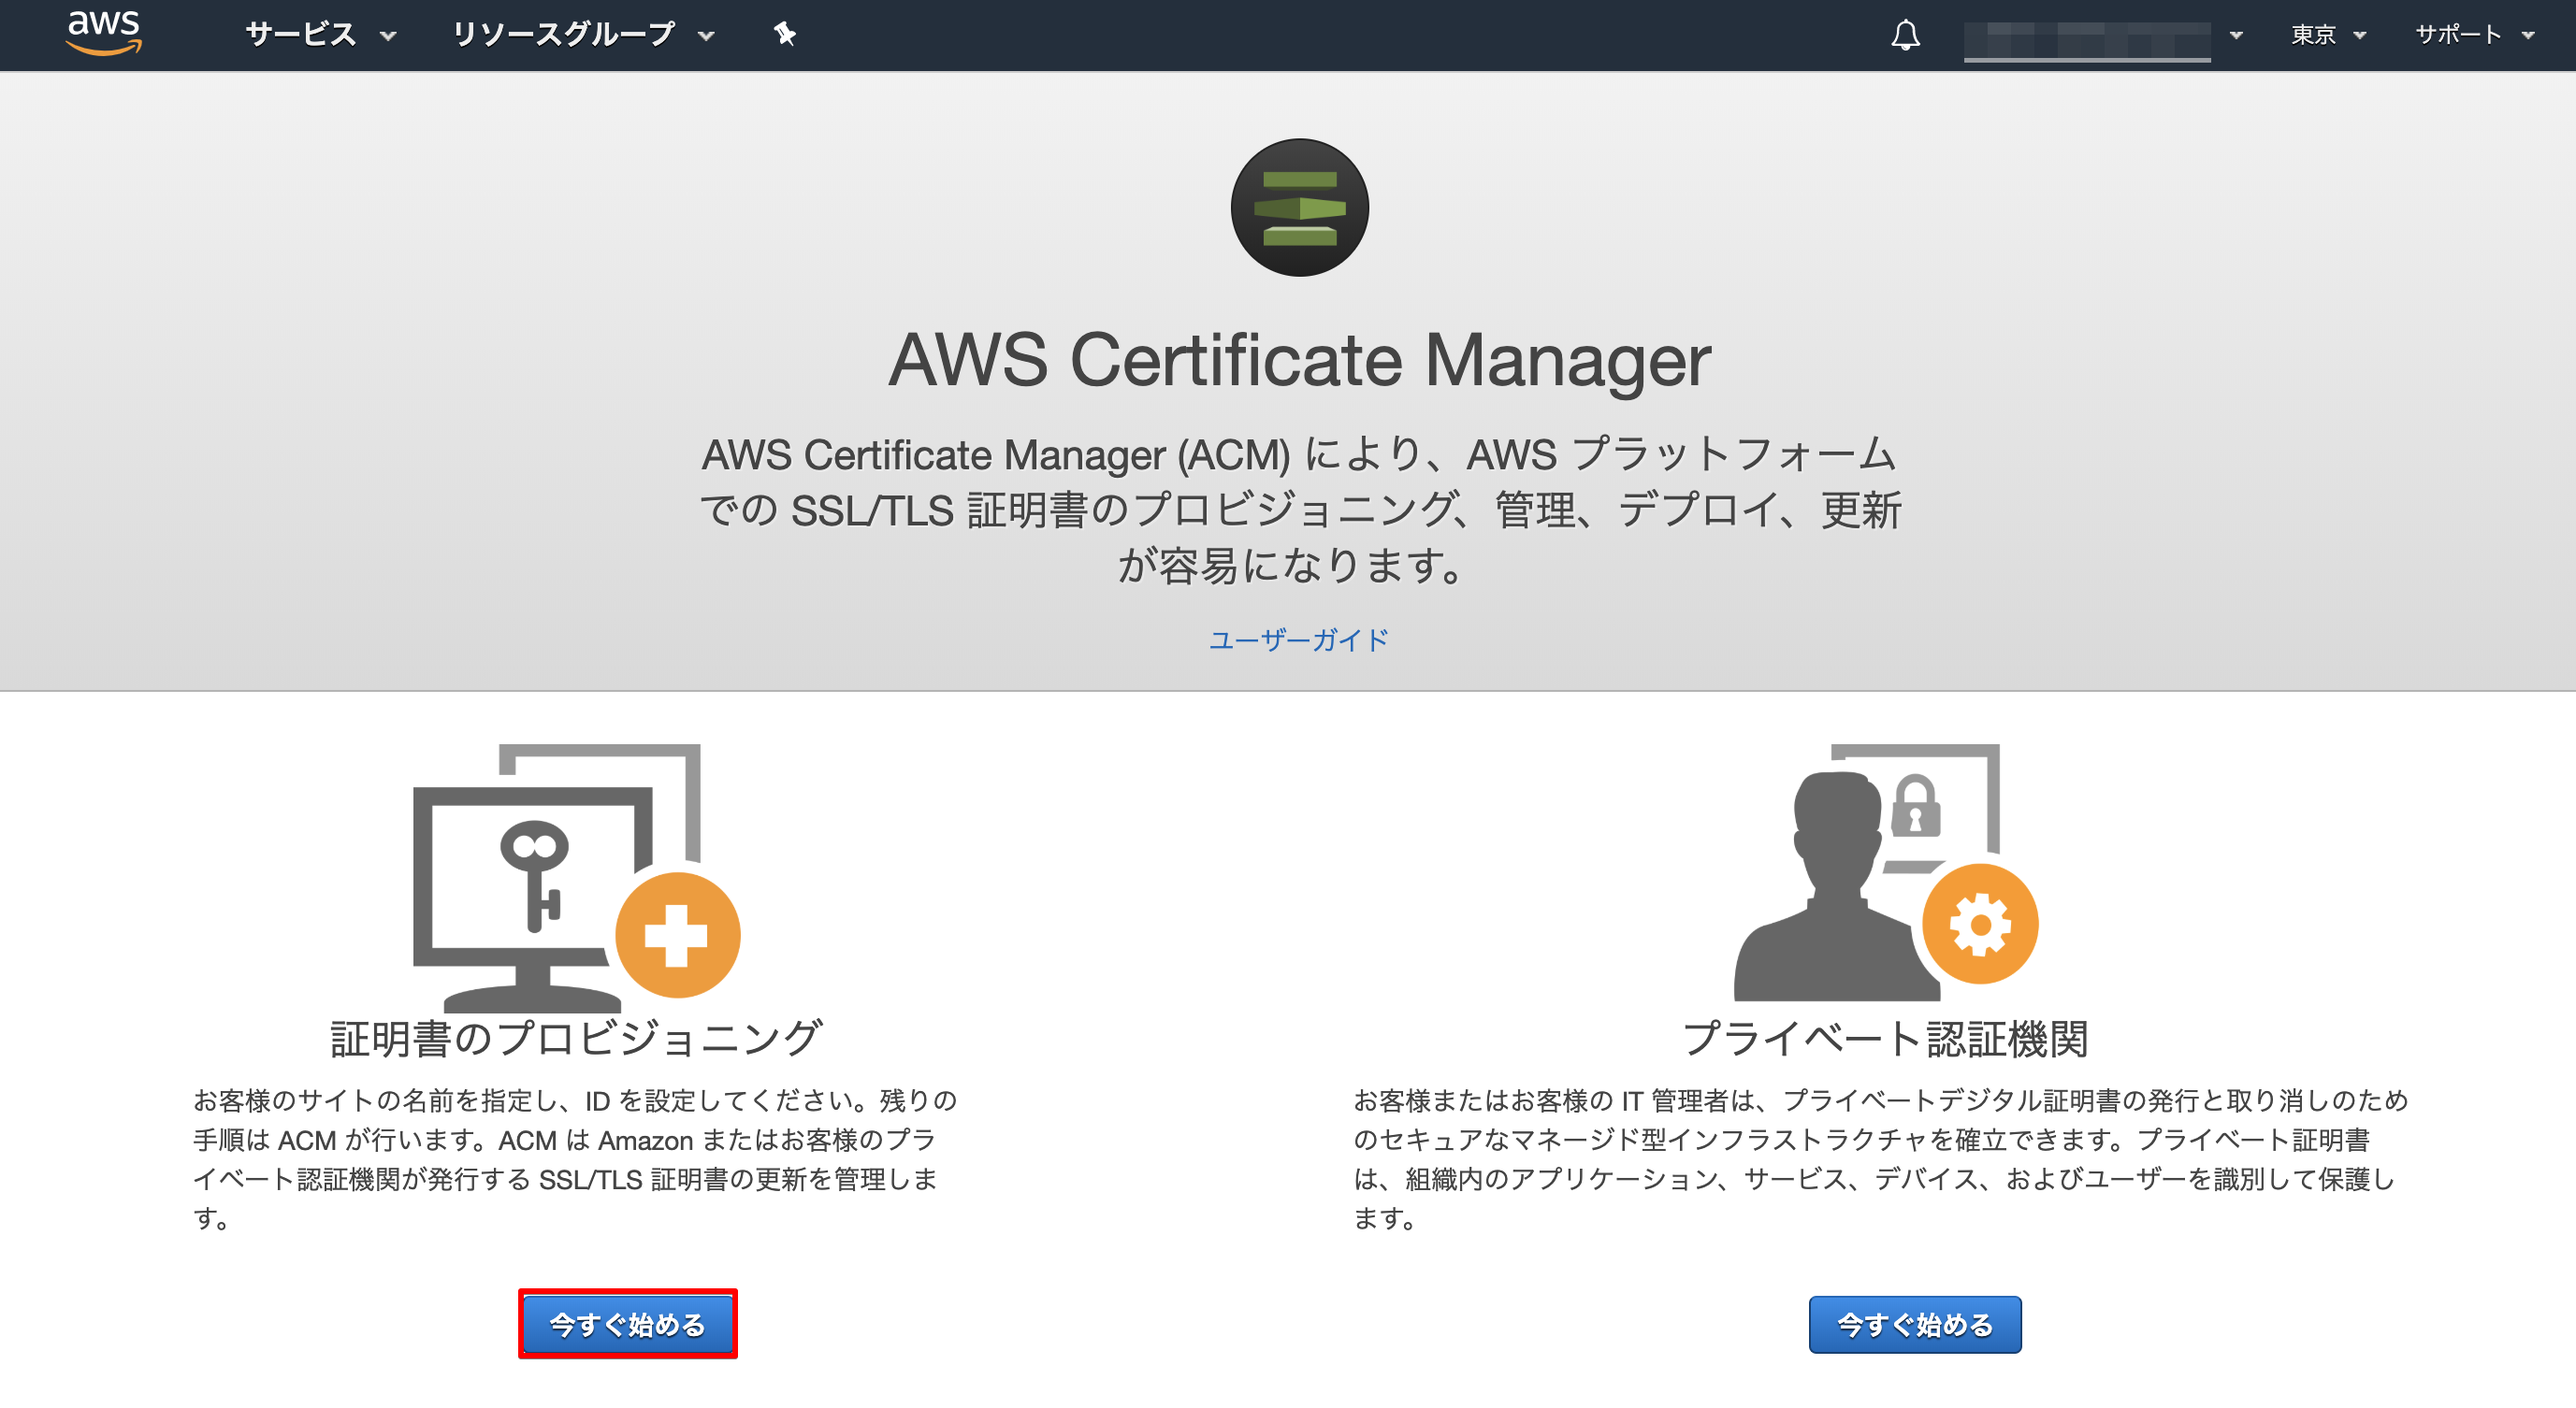
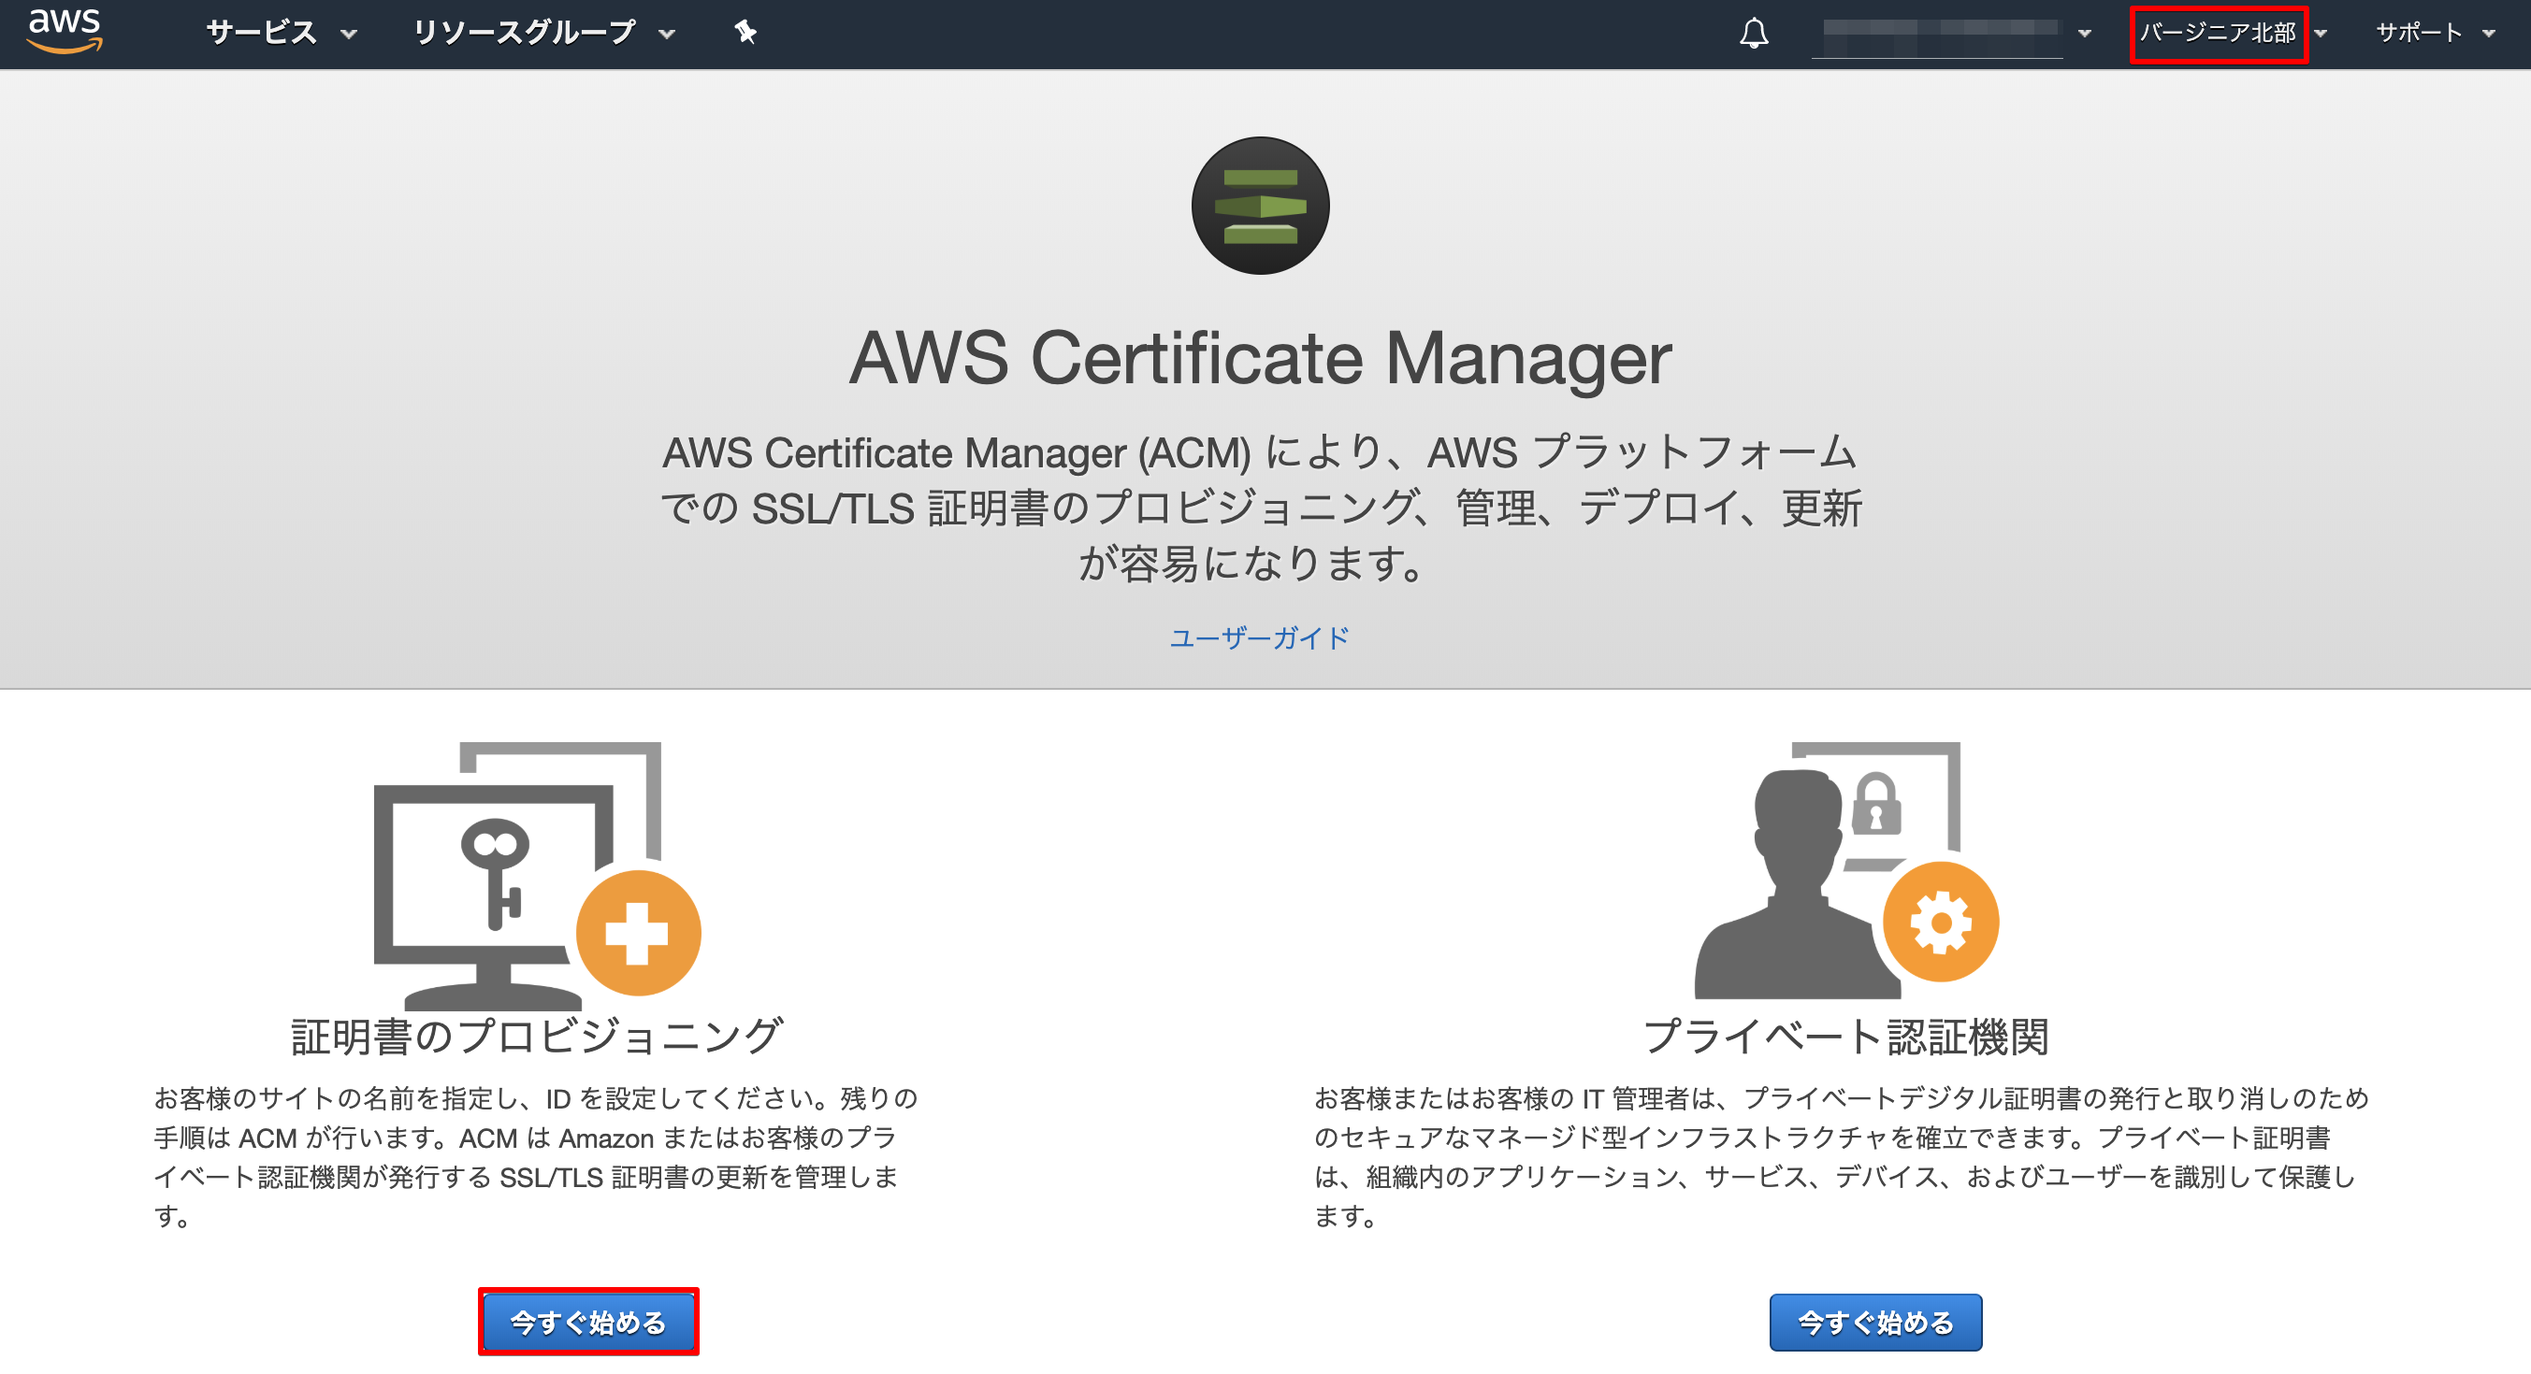
learn how to create a CloudFront distribution for S3 bucket

diff --git a/src/pages/2019/0508-gatsby-aws-s3/index.md b/src/pages/2019/0508-gatsby-aws-s3/index.md
@@ -51,10 +51,31 @@ Amazon が発行する SSL/TLS 証明書の更新を管理します。
 
 ![AWS-Certificate-Manager-8](AWS-Certificate-Manager-8.png)
 
-![AWS-Certificate-Manager-9](AWS-Certificate-Manager-9.png)
-
 Certificate Manager (ACM) が DNS の検証をサポートしました  
 <https://dev.classmethod.jp/cloud/aws/certificate-manager-dns-validation-support/>
+
+### 証明書をリクエストする AWS リージョン (AWS Certificate Manager 用)
+
+ビューワーと CloudFront との間で HTTPS を必須にするには、証明書をリクエストまたはインポートする前に AWS Certificate Manager コンソールで AWS リージョンを **米国東部（バージニア北部）** に変更する必要があります。
+
+CloudFront で SSL/TLS の証明書を使用するための要件 - 証明書をリクエストする AWS リージョン (AWS Certificate Manager 用)  
+<https://docs.aws.amazon.com/ja_jp/AmazonCloudFront/latest/DeveloperGuide/cnames-and-https-requirements.html#https-requirements-aws-region>
+
+## CloudFront
+
+![CloudFront-Management-Console-1](CloudFront-Management-Console-1.png)
+
+![CloudFront-Management-Console-2](CloudFront-Management-Console-2.png)
+
+![CloudFront-Management-Console-3](CloudFront-Management-Console-3.png)
+
+![CloudFront-Management-Console-4](CloudFront-Management-Console-4.png)
+
+![CloudFront-Management-Console-5](CloudFront-Management-Console-5.png)
+
+![CloudFront-Management-Console-6](CloudFront-Management-Console-6.png)
+
+![CloudFront-Management-Console-7](CloudFront-Management-Console-7.png)
 
 ## S3
 
